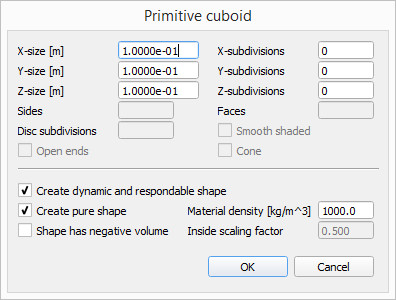
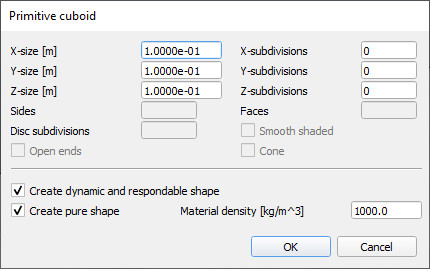
added simple examples for text read/write to file, updated 2 dialogs

Changed region(s): [[0.0, 0.0, 1.0, 1.0], [0.4545, 0.4758, 0.4848, 0.5056]]

diff --git a/en/simIM.htm b/en/simIM.htm
@@ -48,11 +48,13 @@ td.section { margin: 0; padding: 0; }
 <a href="?#copy">simIM.copy</a>
 <a href="?#create">simIM.create</a>
 <a href="?#createFromData">simIM.createFromData</a>
+<a href="?#dataURL">simIM.dataURL</a>
 <a href="?#destroy">simIM.destroy</a>
 <a href="?#distanceTransform">simIM.distanceTransform</a>
 <a href="?#divide">simIM.divide</a>
 <a href="?#divideK">simIM.divideK</a>
 <a href="?#ellipse">simIM.ellipse</a>
+<a href="?#encode">simIM.encode</a>
 <a href="?#exp">simIM.exp</a>
 <a href="?#fillConvexPoly">simIM.fillConvexPoly</a>
 <a href="?#fillPoly">simIM.fillPoly</a>
@@ -1018,6 +1020,41 @@ td.section { margin: 0; padding: 0; }
 </tr>
 </table>
 <br><h3 class="subsectionBar">
+<a name="dataURL" id="dataURL"></a>simIM.dataURL</h3>
+<table class="apiTable">
+<tr class="apiTableTr">
+<td class="apiTableLeftDescr">
+                                                    Description
+                                                </td>
+<td class="apiTableRightDescr">Encode image data according to "data" URL scheme (RFC 2397)</td>
+</tr>
+<tr class="apiTableTr">
+<td class="apiTableLeftLSyn">Lua synopsis</td>
+<td class="apiTableRightLSyn">string output=simIM.dataURL(string imgHandle, string format='BMP')<br>
+</td>
+</tr>
+<tr class="apiTableTr">
+<td class="apiTableLeftLParam">Lua parameters</td>
+<td class="apiTableRightLParam">
+<div>
+<strong>imgHandle</strong> (string): Handle to the image</div>
+<div>
+<strong>format</strong> (string, default: 'BMP'): Image format (BMP, JPG, or PNG)</div>
+</td>
+</tr>
+<tr class="apiTableTr">
+<td class="apiTableLeftLRet">Lua return values</td>
+<td class="apiTableRightLRet"><div>
+<strong>output</strong> (string): Buffer with encoded data</div></td>
+</tr>
+<tr class="apiTableTr">
+<td class="apiTableLeftDescr">
+                                                See also
+                                            </td>
+<td class="apiTableRightDescr"></td>
+</tr>
+</table>
+<br><h3 class="subsectionBar">
 <a name="destroy" id="destroy"></a>simIM.destroy</h3>
 <table class="apiTable">
 <tr class="apiTableTr">
@@ -1202,6 +1239,41 @@ td.section { margin: 0; padding: 0; }
 <tr class="apiTableTr">
 <td class="apiTableLeftLRet">Lua return values</td>
 <td class="apiTableRightLRet">-</td>
+</tr>
+<tr class="apiTableTr">
+<td class="apiTableLeftDescr">
+                                                See also
+                                            </td>
+<td class="apiTableRightDescr"></td>
+</tr>
+</table>
+<br><h3 class="subsectionBar">
+<a name="encode" id="encode"></a>simIM.encode</h3>
+<table class="apiTable">
+<tr class="apiTableTr">
+<td class="apiTableLeftDescr">
+                                                    Description
+                                                </td>
+<td class="apiTableRightDescr">Encode the image to a memory buffer.</td>
+</tr>
+<tr class="apiTableTr">
+<td class="apiTableLeftLSyn">Lua synopsis</td>
+<td class="apiTableRightLSyn">string output=simIM.encode(string handle, string format)<br>
+</td>
+</tr>
+<tr class="apiTableTr">
+<td class="apiTableLeftLParam">Lua parameters</td>
+<td class="apiTableRightLParam">
+<div>
+<strong>handle</strong> (string): handle to image</div>
+<div>
+<strong>format</strong> (string): image format (e.g. "PNG", "JPG", "BMP")</div>
+</td>
+</tr>
+<tr class="apiTableTr">
+<td class="apiTableLeftLRet">Lua return values</td>
+<td class="apiTableRightLRet"><div>
+<strong>output</strong> (string): output buffer</div></td>
 </tr>
 <tr class="apiTableTr">
 <td class="apiTableLeftDescr">

diff --git a/en/importExport.htm b/en/importExport.htm
@@ -27,6 +27,7 @@
 <li><a href="#gltf">animation or scene data, via the GLTF format</a></li>
 <li><a href="aviRecorder.htm">video data, via various formats</a></li>
 <li><a href="#image">image data, via various formats</a></li>
+<li><a href="#text">text/binary data</a></li>
 
 <p>New importers/exports can easily be created via an <a href="addOns.htm">add-on</a>, or via a <a href="plugins.htm">plugin</a>.</p>
 
@@ -68,6 +69,38 @@
 
 <p>Images can be imported/exported with <a href="regularApi/simLoadImage.htm">sim.loadImage</a> and <a href="regularApi/simSaveImage.htm">sim.saveImage</a>. </p>
 <p>See also <a href="regularApi/simGetScaledImage.htm">sim.getScaledImage</a>, <a href="regularApi/simTransformImage.htm">sim.transformImage</a>, <a href="regularApi/simTransformBuffer.htm">sim.transformBuffer</a> and the <a href="simIM.htm?view=alphabetical">OpenCV plugin API reference</a>.</p>
+
+<br>
+
+<table class=subsectionTable><tr class=subsectionTd><td class=subsectionTd>
+<a name="text"></a>Importing/exporting text/binary data
+</td></tr></table> 
+
+<p>Following example illustrates how to log a joint angle to a file, as text data:</p>
+  
+<pre class=lightRedBox>function sysCall_init()
+    jointHandle=sim.getObjectHandle('Joint')
+    file=io.open('jointAngles.txt','w+')
+    file:write('Joint angles for each simulation step:\n\n')
+end
+
+function sysCall_sensing()
+    local v=180*sim.getJointPosition(jointHandle)/math.pi
+    file:write(string.format('time: %.3f [s]',sim.getSimulationTime()+sim.getSimulationTimeStep()))
+    file:write(string.format(', joint angle: %.1f [deg]\n',v))
+end
+
+function sysCall_cleanup()
+    file:close()
+end</pre>
+
+<p>Following example illustrates how to read a file, line by line:</p>
+  
+<pre class=lightRedBox>for line in io.lines('textFile.txt') do 
+    print(line)
+end</pre>
+
+
 
 <br>
 <br>

diff --git a/en/versionInfo.htm b/en/versionInfo.htm
@@ -44,6 +44,14 @@ Version history:
 
 
 <table class=subsectionTable><tr class=subsectionTd>
+ <td class=subsectionTd><a name="coppeliaSim4.3.0" id="coppeliaSim4.3.0"></a>CoppeliaSim V4.3.0 (not yet released)</td></tr></table> 
+ 
+<li>Fixed several bugs. Thanks to xxx for noticing them or helping to resolve them.</li>
+<li>Added an example model of a Stewart platform: <em>Models/robots/non-mobile/Stewart platform.ttm</em>.</li>
+<br>
+
+
+<table class=subsectionTable><tr class=subsectionTd>
  <td class=subsectionTd><a name="coppeliaSim4.2.0" id="coppeliaSim4.2.0"></a>CoppeliaSim V4.2.0 (April 6th 2021)</td></tr></table> 
  
 <li>Fixed several bugs. Thanks to Adrian Schoisengeier, Mathias Thor, Francisco Marin, Nikita Aigner, Charles Han, Shai Levy, Bobovsky Zdenko, Salvatore Sessa, Jakob Ambsdorf, Hayato Amaike and Kevin Thomas for noticing them or helping to resolve them.</li>

diff --git a/en/primitiveShapes.htm b/en/primitiveShapes.htm
@@ -69,9 +69,6 @@ Geometric parameters of the primitive shapes can be adjusted in the primitive sh
 <li><strong>Material density</strong>: the density of the material.
 </li>
 
-<li><strong>Shape has negative volume</strong>: when checked, then created pure shapes will have a hole inside (i.e. a negative volume) that has the dimensions of the shape scaled by the <strong>Inside scaling factor</strong>. This is a useful feature to create tube-like structures that can be efficiently simulated dynamically. Currently, only the <a href="dynamicsModule.htm#vortex">Vortex Studio engine</a> supports this feature. </li>
-
-
 <p>(*) the subdivisions and faces properties cannot directly be seen and have not a direct effect. Following shows two similar shapes with different subdivision parameters:
 </p>
 

diff --git a/en/graphPropertiesDialog.htm b/en/graphPropertiesDialog.htm
@@ -34,9 +34,6 @@
 <p class=imageLabel>[Graph dialog]</p>
 <br>
 
-<li><strong>Display XYZ planes</strong>: turns on and off the display of a graph's XYZ-planes in the scene view.<br>
-</li>
-
 <li><strong>Object size</strong>: size of the graph object. This parameter has no functional effect.<br>
 </li>
 
